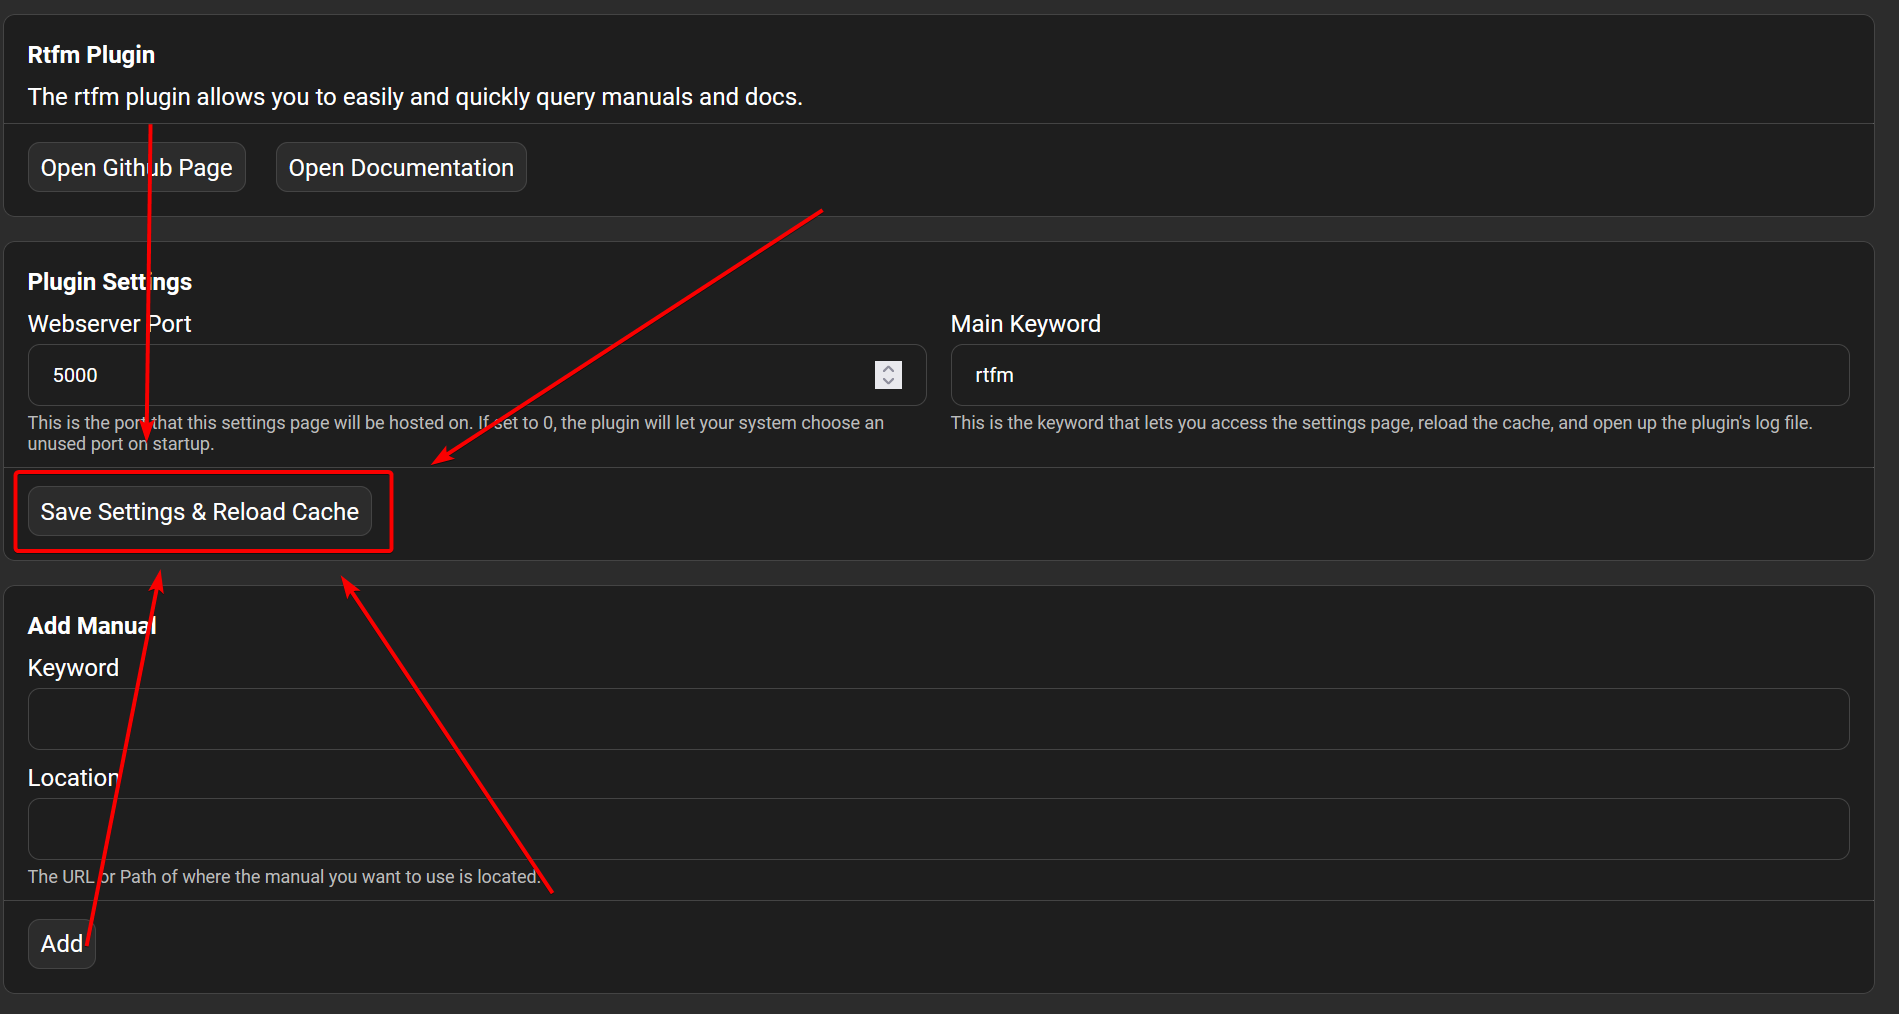
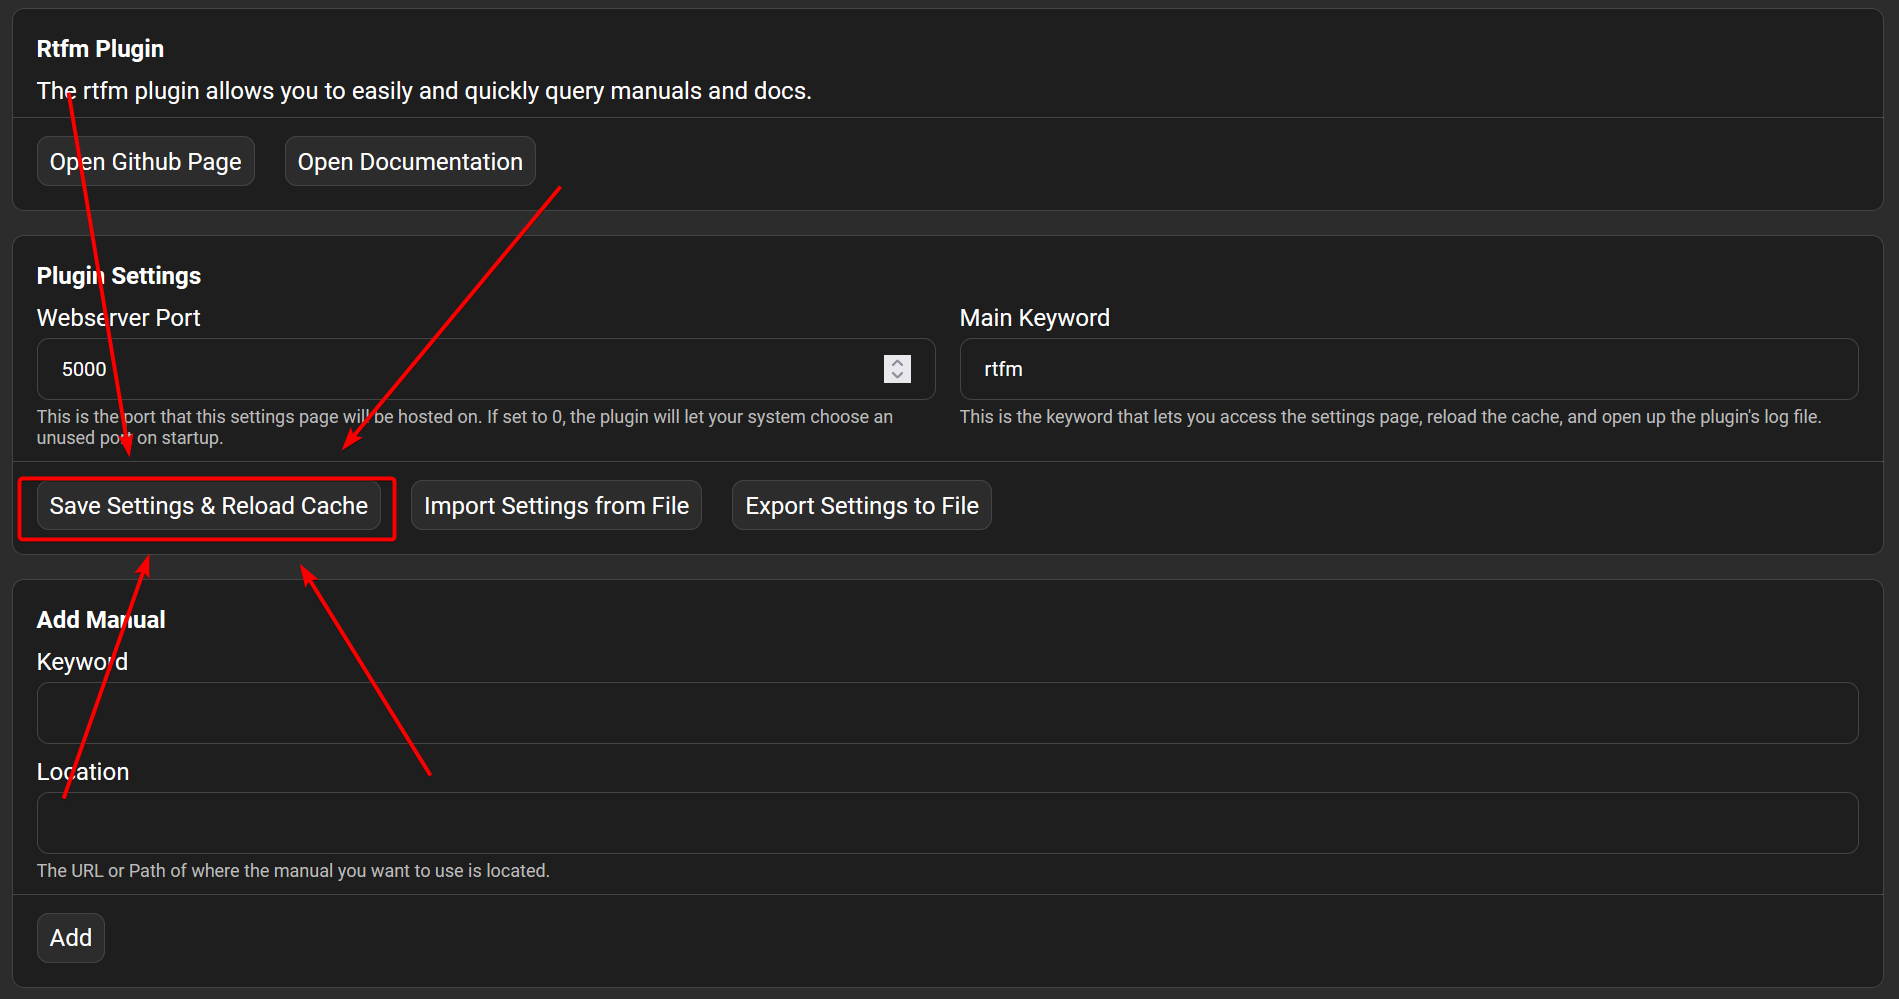
Add importing/exporting settings buttons to frontend

diff --git a/plugin/server/script.js b/plugin/server/script.js
@@ -44,6 +44,10 @@ const elements = {
     addManualLoc: document.querySelector("#add-manual-loc"),
     /** @type {HTMLDialogElement} */
     loadingModal: document.querySelector("#loading-modal"),
+    /** @type {HTMLButtonElement} */
+    importBtn: document.querySelector("#import-btn"),
+    /** @type {HTMLButtonElement} */
+    exportBtn: document.querySelector("#export-btn"),
 };
 
 /**
@@ -131,6 +135,7 @@ elements.addManualButton.addEventListener("click", async () => {
             return;
         }
 
+        alert("Success!");
         addNewDoc(response.data);
     } catch (e) {
         hideLoadingModal();
@@ -170,5 +175,51 @@ elements.mainForm.addEventListener("click", e => {
         replaceIndexInAttribute(card, `label`, 'for', i);
         replaceIndexInAttribute(card, `input`, 'id', i);
         replaceIndexInAttribute(card, `input`, 'name', i);
+    }
+});
+
+elements.importBtn.addEventListener("click", () => {
+    const fileInput = document.createElement("input");
+    fileInput.type = "file";
+    fileInput.accept = ".txt";
+    fileInput.click();
+    fileInput.addEventListener("change", () => {
+        const file = fileInput.files[0];
+        const reader = new FileReader();
+        reader.readAsText(file);
+        reader.addEventListener("load", async () => {
+            const data = reader.result;
+            try {
+                let response = await fetch("/api/import_settings", {
+                    body: JSON.stringify({data}),
+                    method: "POST",
+                });
+                console.log("Got Response from import settings endpoint", response);
+                alert("Settings imported successfully!");
+            } catch {
+                alert("Failed to import settings!");
+            }
+        });
+    });
+});
+
+elements.exportBtn.addEventListener("click", async () => {
+    try {
+        const data = await fetch("/api/export_settings").then(res => res.json());
+        if (!data.success) {
+            alert("Failed to export settings!");
+            return;
+        }
+        const file = new Blob([data.data], {type: "text/plain"});
+        const url = URL.createObjectURL(file);
+        const a = document.createElement("a");
+        a.href = url;
+        a.download = "rtfm_settings.txt";
+        a.click();
+        URL.revokeObjectURL(url);
+        alert("Settings exported successfully!");
+        location.reload();
+    } catch {
+        alert("Failed to export settings!");
     }
 });

diff --git a/plugin/server/index.html b/plugin/server/index.html
@@ -32,6 +32,8 @@
             </div>
             {% call actions() %}
                 <button>Save Settings & Reload Cache</button>
+                <button type="button" id="import-btn">Import Settings from File</button>
+                <button type="button" id="export-btn">Export Settings to File</button>
             {% endcall %}
         {% endcall %}
 

diff --git a/docs/settings.rst b/docs/settings.rst
@@ -23,11 +23,18 @@ Saving your settings
 --------------------
 Your settings will not automatically save, you have to save them manually. To save your settings and trigger a cache reload, press the ``Save Settings & Reload Cache`` button under the ``Plugin Settings`` section in the website. This button is the only method to save any of your settings.
 
+.. NOTE::
+    The cache reload is asynchronous, so the button will trigger it, but won't wait for it to finish. Because of this, any cache failures will be shown to you via a windows notification.
+
 .. image:: /_static/images/save_settings_example_darkmode.png
     :class: only-dark
 
 .. image:: /_static/images/save_settings_example_lightmode.png
     :class: only-light
+
+Backups
+--------
+If you would like, you can create backups by using the ``Export Settings`` and ``Import Settings`` buttons. When exporting your settings, a file called ``rtfm_settings.txt`` will be downloaded to your downloads folder.
 
 Adding a manual/doc
 -------------------

diff --git a/docs/changelog.rst b/docs/changelog.rst
@@ -3,3 +3,4 @@ Changelog
 
 - Fix bug with a debug ``data`` file being created when using rtfm indexed presets
 - Fix bug with some presets failing to load on startup due to extra slashes at the end of the url.
+- Add the ability to import and export settings
